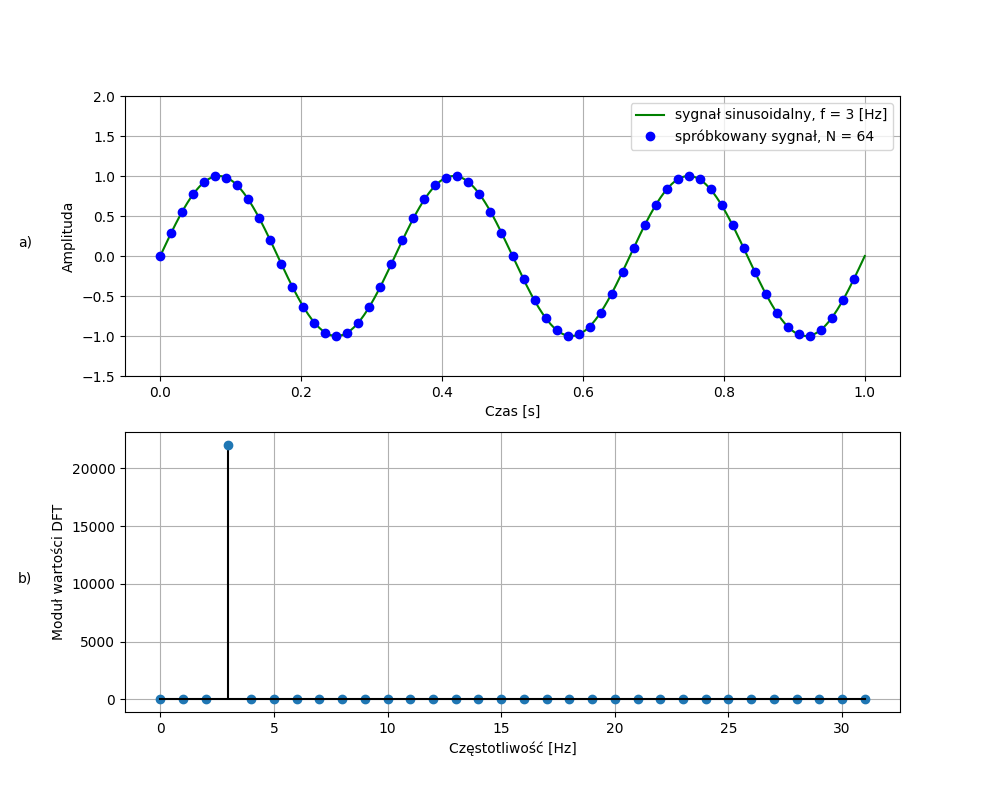
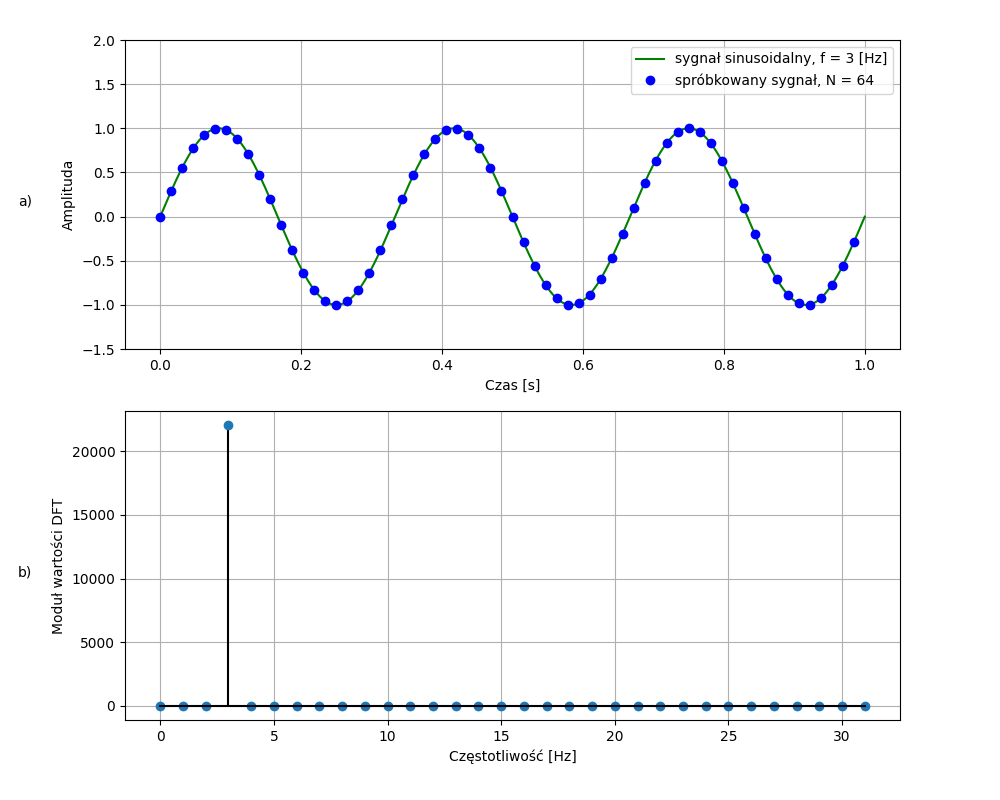
Adding plot file and it's results.

diff --git a/plots.py b/plots.py
@@ -2,13 +2,18 @@ import matplotlib.pyplot as plt  # to plot
 import numpy as np
 from scipy.fft import fft, fftfreq, rfft, rfftfreq
 from scipy import signal
+import wave
+import os
+
+import librosa
+import librosa.display
 
 
-def generate_sine_wave(freq, sample_rate, duration):
+def generate_sine_wave(freq, sample_rate, duration, amplitude=1, phase=0):
     x = np.linspace(0, duration, int(sample_rate * duration), endpoint=False)
     frequencies = x * freq
     # 2pi because np.sin takes radians
-    y = np.sin((2 * np.pi) * frequencies)
+    y = amplitude * np.sin((2 * np.pi) * frequencies + phase)
     return x, y
 
 
@@ -121,7 +126,9 @@ def dtf_leakage():
     ax[1].grid()
     ax[1].set_xlabel("Częstotliwość [Hz]")
     ax[1].set_ylabel("Moduł wartości DFT")
-
+    plt.subplots_adjust(
+        bottom=0.1,
+        top=0.95)
     plt.show()
 
     # ---------------------------------------------------------------------------------
@@ -157,6 +164,9 @@ def dtf_leakage():
     ax[1].set_xlabel("Częstotliwość [Hz]")
     ax[1].set_ylabel("Moduł wartości DFT")
     ax[1].grid()
+    plt.subplots_adjust(
+        bottom=0.1,
+        top=0.95)
 
     plt.show()
 
@@ -179,6 +189,7 @@ def window_functions():
 
     number_of_zeros = 50
     number_of_filter = 200
+
     zeros = np.zeros(number_of_zeros)
     filter1 = np.zeros(number_of_zeros)
     filter2 = np.zeros(number_of_zeros)
@@ -196,25 +207,203 @@ def window_functions():
     filter3 = np.append(filter3, hanning_window)
     filter3 = np.append(filter3, zeros)
 
-    rec_2 = np.zeros(50)
-    rec_2 = np.append(rec_2, rec)
-    rec_2 = np.append(rec_2, zeros)
+    xscale = np.linspace(0, 3, 300)
 
     ax1.plot(x, y)
-    ax2.plot(rec_2)
+    ax2.plot(xscale, filter1)
     ax3.plot(x, np.multiply(filter1, y))
-    ax4.plot(trian)
+    ax4.plot(xscale, filter2)
     ax5.plot(x, np.multiply(filter2, y))
-    ax6.plot(hanning_window)
+    ax6.plot(xscale, filter3)
     ax7.plot(x, np.multiply(filter3, y))
 
+    axs = [ax1, ax2, ax3, ax4, ax5, ax6, ax7]
+    letters = ['a)', 'b)', 'c)', 'd)', 'e)', 'f)', 'g)']
+
+    for i, ax in enumerate(axs):
+        ax.set_xlabel("Czas [s]")
+        if i == 0:
+            ax.text(-0.07, 0.5, s=letters[i], transform=ax.transAxes, va='top', ha='right')
+        ax.text(-0.15, 0.5, s=letters[i], transform=ax.transAxes, va='top', ha='right')
+
+    # plt.tight_layout()
+    plt.subplots_adjust(left=0.1,
+                        bottom=0.05,
+                        right=0.9,
+                        top=0.95,
+                        wspace=0.3,
+                        hspace=0.3)
+    plt.show()
+
+
+def overlapping():
+    directory = os.getcwd()
+    audio_path = directory + '\Audio\\superstition.wav'
+    audio_data, sr = librosa.load(audio_path)
+
+    audio_data = audio_data[:88200]
+
+    x_scale = np.linspace(0, 4, sr * 4)
+
+    ones = np.hanning(sr)
+    zeros = np.zeros(sr)
+
+    # filter1 = np.concatenate((ones, zeros, zeros, zeros), axis=None)
+    # filter2 = np.concatenate((zeros, ones, zeros, zeros), axis=None)
+    # filter3 = np.concatenate((zeros, zeros, ones, zeros), axis=None)
+
+    filter1 = np.concatenate((zeros, ones, zeros, zeros), axis=None)
+    filter2 = np.concatenate((zeros, zeros, ones, zeros), axis=None)
+    filter3 = np.concatenate((zeros, zeros, zeros, ones), axis=None)
+
+    fig, ax = plt.subplots(4, 1, figsize=(10, 8))
+
+    # ax[0].text(-0.12, 0.5, s='a)', transform=ax[0].transAxes, va='top', ha='right')
+    # ax[0].legend(loc='upper right')
+    # ax[0].set_ylabel("Amplituda")
+    ax[0].plot(x_scale, audio_data)
+    ax[0].set_xlabel("Czas [s]")
+    ax[0].set_ylim(-1, 1)
+    ax[0].grid()
+
+    ax[1].plot(x_scale, np.multiply(audio_data, filter1))
+    ax[1].plot(x_scale, filter1, 'r')
+    ax[1].set_xlabel("Czas [s]")
+    ax[1].grid()
+
+    ax[2].plot(x_scale, np.multiply(audio_data, filter2))
+    ax[2].plot(x_scale, filter2, 'r')
+    ax[2].set_xlabel("Czas [s]")
+    ax[2].grid()
+
+    ax[3].plot(x_scale, np.multiply(audio_data, filter3))
+    ax[3].plot(x_scale, filter3, 'r')
+    ax[3].set_xlabel("Czas [s]")
+    ax[3].grid()
+
     plt.tight_layout()
+
+    plt.show()
+
+    # -------------------------------------------------------------------------------------------------------
+
+    filter1 = np.concatenate((zeros, ones, zeros, zeros), axis=None)
+    filter2 = np.concatenate((zeros, zeros[:11025], ones, zeros, zeros[:11025]), axis=None)
+    filter3 = np.concatenate((zeros, zeros, ones, zeros), axis=None)
+
+    # filter1 = np.concatenate((ones, zeros, zeros, zeros), axis=None)
+    # filter2 = np.concatenate((zeros[:11025], ones, zeros, zeros, zeros[:11025]), axis=None)
+    # filter3 = np.concatenate((zeros, ones, zeros, zeros), axis=None)
+
+    hop_size1 = np.linspace(1, 1.5, int(sr / 2))
+    hop_size2 = np.linspace(1.5, 2, int(sr / 2))
+
+    fig, ax = plt.subplots(4, 1, figsize=(10, 8))
+
+    ax[0].plot(x_scale, audio_data)
+    ax[0].set_xlabel("Czas [s]")
+    ax[0].set_ylim(-1, 1)
+    ax[0].grid()
+
+    ax[1].plot(x_scale, np.multiply(audio_data, filter1))
+    ax[1].plot(x_scale, filter1, 'r')
+    ax[1].set_xlabel("Czas [s]")
+    ax[1].grid()
+
+    ax[2].plot(x_scale, np.multiply(audio_data, filter2))
+    ax[2].plot(x_scale, filter2, 'r')
+    ax[2].plot(hop_size1, np.ones(int(sr / 2)) / 2, 'k')
+    ax[2].set_xlabel("Czas [s]")
+    ax[2].grid()
+
+    ax[2].annotate('długość skoku', xy=(0.95, 0.5), xytext=(0.25, 0.25),
+                   arrowprops=dict(facecolor='black', width=0.5, headwidth=5, headlength=5),
+                   )
+
+    ax[3].plot(x_scale, np.multiply(audio_data, filter3))
+    ax[3].plot(x_scale, filter3, 'r')
+    ax[3].plot(hop_size2, np.ones(int(sr / 2)) / 2, 'k')
+    ax[3].set_xlabel("Czas [s]")
+    ax[3].grid()
+
+    ax[3].annotate('długość skoku', xy=(1.45, 0.5), xytext=(0.75, 0.25),
+                   arrowprops=dict(facecolor='black', width=0.5, headwidth=5, headlength=5),
+                   )
+
+    plt.tight_layout()
+    plt.show()
+
+
+def fourier():
+    SAMPLE_RATE = 44100
+    DURATION = 1
+    FREQUENCY_1 = 5
+    FREQUENCY_2 = 20
+    FREQUENCY_3 = 50
+
+    x1, y1 = generate_sine_wave(FREQUENCY_1, SAMPLE_RATE, DURATION, amplitude=1)
+    _, y2 = generate_sine_wave(FREQUENCY_2, SAMPLE_RATE, DURATION, amplitude=0.5)
+    _, y3 = generate_sine_wave(FREQUENCY_3, SAMPLE_RATE, DURATION, amplitude=0.25)
+
+    N = SAMPLE_RATE * DURATION
+
+    yf = rfft(y1 + y2 + y3)
+    xf = rfftfreq(N, 1 / SAMPLE_RATE)
+    fig, ax = plt.subplots(2, 1, figsize=(10, 8))
+
+    ax[0].plot(x1, y1 + y2 + y3, 'g', label='sin(5Hz)+$\\frac{1}{2}$sin(20Hz)+$\\frac{1}{4}$sin(50Hz)')
+    ax[0].text(-0.12, 0.5, s='a)', transform=ax[0].transAxes, va='top', ha='right')
+    ax[0].legend(loc='upper right')
+    ax[0].set_xlabel("Czas [s]")
+    ax[0].set_ylabel("Amplituda")
+    ax[0].set_ylim(-2, 2.5)
+    ax[0].grid()
+
+    ax[1].stem(xf[:100], np.abs(yf)[:100], 'k', basefmt="-k",
+               label='widmo sygnału sin(5Hz)+$\\frac{1}{2}$sin(20Hz)+$\\frac{1}{4}$sin(50Hz)')
+    ax[1].text(-0.12, 0.5, s='b)', transform=ax[1].transAxes, va='top', ha='right')
+    ax[1].legend(loc='upper right')
+    ax[1].set_xlabel("Częstotliwość [Hz]")
+    ax[1].set_ylabel("Moduł wartości DFT")
+    ax[1].grid()
+
+    plt.subplots_adjust(
+        bottom=0.1,
+        top=0.95)
+
+    plt.show()
+
+
+def spectrogram():
+    directory = os.getcwd()
+    audio_path = directory + '\Audio\\superstition.wav'
+    audio_data, sr = librosa.load(audio_path)
+
+    audio_data = audio_data[:88200]
+    data_stft = np.abs(librosa.stft(audio_data))
+    data_stft_db = librosa.amplitude_to_db(data_stft)
+
+    fig, ax = plt.subplots(figsize=(8, 6))
+    # fig, ax = plt.subplots()
+
+    img = librosa.display.specshow(data_stft_db, x_axis='time', y_axis='log', ax=ax)
+    # ax.set_title(f"Power spectrogram\nFile:{self.audio_name}")
+    fig.colorbar(img, ax=ax, format="%+2.0f dB")
+    ax.set_xlabel("Czas [s]")
+    ax.set_ylabel("Częstotliwość [Hz]")
+
+    plt.subplots_adjust(
+        bottom=0.1,
+        top=0.95)
     plt.show()
 
 
 if __name__ == "__main__":
     # plot_quantization()
     # plot_aliasing()
-    # dtf_leakage2()
     # dtf_leakage()
-    window_functions()
+    # window_functions()
+    # overlapping()
+    # fourier()
+    # spectrogram()
+    pass
